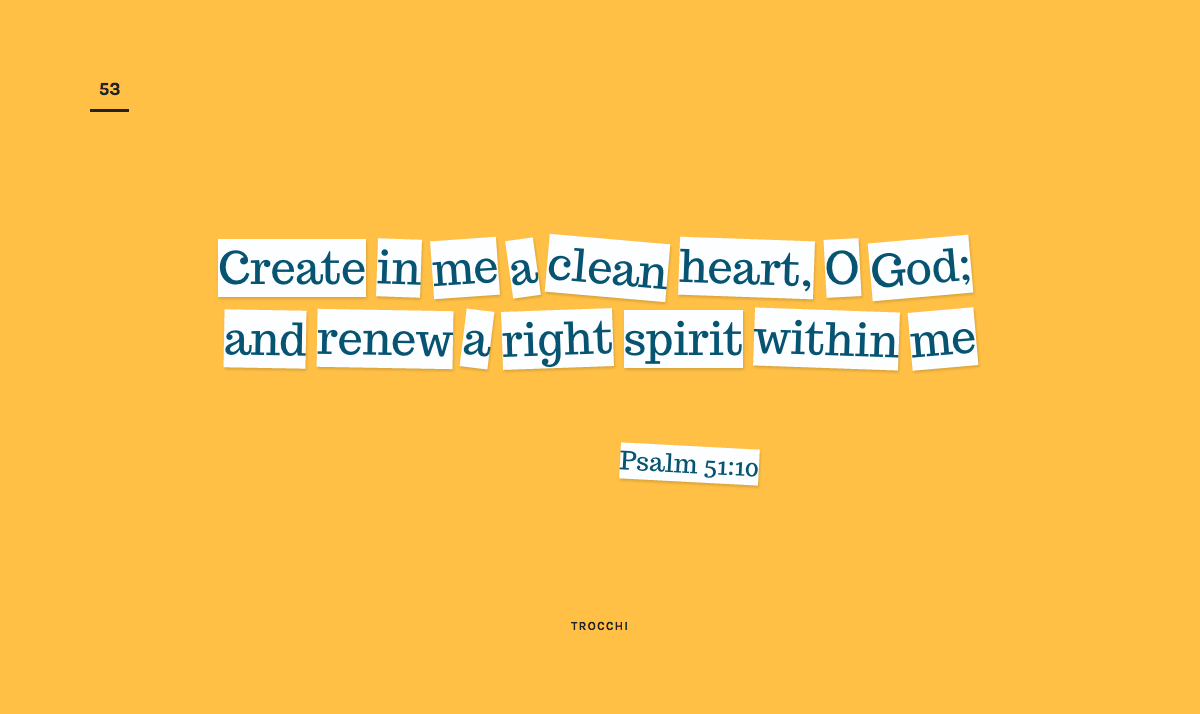
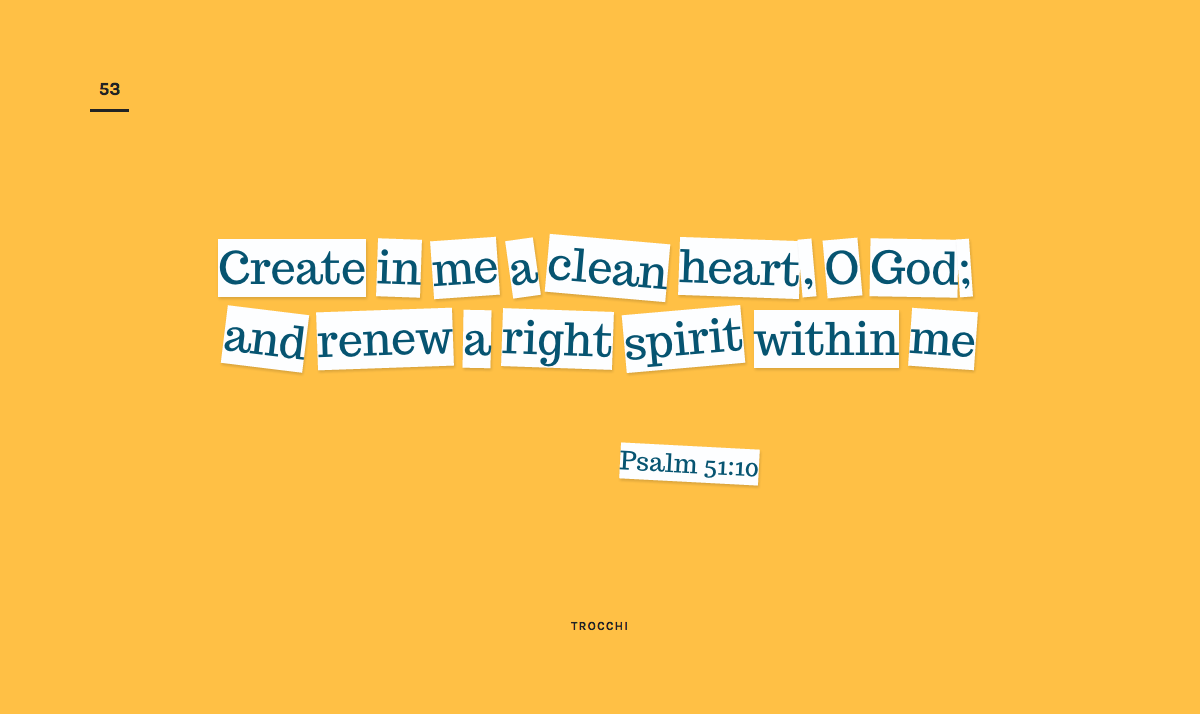
Day 53 adjust.

Changed region(s): [[0.185, 0.3081, 0.8325, 0.5238]]

diff --git a/index.html b/index.html
@@ -8,7 +8,7 @@
 
   <meta name="fontsCSS" content="//fonts.googleapis.com/css?family=Karla:400,700|Playfair+Display:400,400italic,700,700italic,900|Trocchi|Montserrat+Subrayada|Rock+Salt|Monoton|Playfair+Display+SC:700italic|Poppins|Cinzel|Work+Sans:600|Domine|Suranna|Yantramanav:900|Montserrat+Alternates|Istok+Web:400,700|Sacramento|Questrial|Vidaloka|Source+Sans+Pro:400,900|Neuton|Oxygen:700|VT323|Chonburi|Josefin+Slab|Droid+Serif|Exo|Lustria|Permanent+Marker|Vollkorn|Arimo|Londrina+Sketch|Francois+One|Bangers|Patrick+Hand|League+Script|Quicksand|Prata|Fira+Sans:500|Amiri:400,700|Fjalla+One|Arapey|Hind:700|Gentium+Book+Basic:400,700|EB+Garamond|Share+Tech+Mono|PT+Serif:400,700italic|Montserrat|Inconsolata:700|Codystar|Old+Standard+TT:400,400italic|Oswald:300,400|Ovo|Lato:100,400|Libre+Baskerville:400italic|Vast+Shadow|Amatic+SC|PT+Mono|Abril+Fatface|Roboto:100,300|Crimson+Text:400,400italic,700|Glegoo:400,700">
   <style>
-   @charset "UTF-8";a,aside,b,blockquote,body,cite,div,em,figcaption,figure,footer,h1,h2,h3,h4,h5,h6,header,html,i,img,li,nav,ol,p,q,section,small,span,strong,sub,sup,time,ul{font:inherit;vertical-align:baseline;border:0;padding:0;margin:0}.about-description,.container,.day-scripture{margin-left:auto;margin-right:auto}.day-info,.day-number,b,strong{font-weight:700}.about-title-head,.about-title-tail,em,i{font-style:italic}article,aside,details,figcaption,figure,footer,header,nav,section{display:block}body{line-height:1;font-family:KarlaLocal,"Open Sans",Helvetica,Arial,sans-serif;color:#222324;text-rendering:optimizeLegibility;-webkit-font-variant-ligatures:common-ligatures;font-variant-ligatures:common-ligatures;-webkit-font-feature-settings:"liga";font-feature-settings:"liga"}ol,ul{list-style:none}blockquote,q{quotes:none}blockquote:after,blockquote:before,q:after,q:before{content:'';content:none}@font-face{font-family:KarlaLocal;font-weight:400;font-style:normal;src:local("Karla"),local("Karla-Regular")}@font-face{font-family:KarlaLocal;font-weight:700;font-style:normal;src:local("Karla"),local("Karla-Bold")}@font-face{font-family:PlayfairDisplayLocal;font-weight:400;font-style:normal;src:local("Playfair Display"),local("PlayfairDisplay-Regular")}@font-face{font-family:PlayfairDisplayLocal;font-weight:700;font-style:normal;src:local("Playfair Display"),local("PlayfairDisplay-Bold")}@font-face{font-family:PlayfairDisplayLocal;font-weight:700;font-style:italic;src:local("Playfair Display"),local("PlayfairDisplay-BoldItalic")}.fonts-loaded-100 body{font-family:Karla,KarlaLocal,"Open Sans",Helvetica,Arial,sans-serif}.fonts-timeout-100 body{font-family:KarlaLocal,Karla,"Open Sans",Helvetica,Arial,sans-serif}a{color:#3498db;text-decoration:none}.footer,.footer a{color:#fdfeff}a:hover{text-decoration:underline}.container{max-width:64em}.footer{font-size:.875em;text-align:center;background-color:#222324;padding-top:1.5625em;padding-bottom:1.5625em}@media only screen and (min-width:40em){.footer{padding-top:1.875em;padding-bottom:1.875em}}@media only screen and (min-width:52em){.footer{padding-top:2.5em;padding-bottom:2.5em}}.day-number{color:#222324;text-align:center;border-bottom:3px solid #222324;display:inline-block;width:2.1875em;padding-bottom:.625em;margin-bottom:3.5em}.day--14 .day-number,.day--15 .day-number,.day--2 .day-number,.day--5 .day-number,.day--9 .day-number,.day-number--white{color:#fdfeff;border-bottom-color:#fdfeff}.day-scripture{max-width:80em}.day-scripture::after{clear:both;content:"";display:table}.day-info{font-size:.75em;letter-spacing:.1em;text-transform:uppercase;text-align:center;margin-top:5.33333em}.day-reference{display:block}.day-font{color:#8a8b8c;line-height:1.4}.day-font-link{color:#222324}.about,.day{overflow:hidden;padding:2.5em .9375em}@media only screen and (min-width:30em){.about,.day{padding:3.125em 1.875em}.day-number{margin-bottom:4.0625em}.day-info{margin-top:6.25em}}@media only screen and (min-width:40em){.about,.day{padding:3.75em 3.4375em}.day-number{font-size:1.0625em;margin-bottom:4.23529em}.day-info{margin-top:7em}}@media only screen and (min-width:52em){.about,.day{padding:4.375em 4.6875em}.day-number{margin-bottom:4.8125em}.day-info{margin-top:7.58333em}}@media only screen and (min-width:64em){.about,.day{padding:5em 5.625em}.day-number{font-size:1.125em;margin-bottom:4.44444em}.day-info{margin-top:8em}}.about{background-color:#f2f3f4}.about-title-wrap{text-align:center}.about-title{font-family:PlayfairDisplayLocal,"Times New Roman",Times,serif;margin-bottom:1.25em}.fonts-loaded-100 .about-title{font-family:"Playfair Display",PlayfairDisplayLocal,"Times New Roman",Times,serif}.fonts-timeout-100 .about-title{font-family:PlayfairDisplayLocal,"Playfair Display","Times New Roman",Times,serif}.about-title-head{font-size:2.5em;font-weight:700;display:block}.about-title-tail{font-size:1em;letter-spacing:.22em;text-transform:uppercase;position:relative;left:.0625em}.about-description{color:#454647;line-height:1.3;letter-spacing:-.02em;max-width:31.25em}.about-description p:first-child{margin-bottom:.5em}@media only screen and (min-width:40em){.container--about{display:-webkit-flex;display:-ms-flexbox;display:flex;-webkit-justify-content:center;-ms-flex-pack:center;justify-content:center}.about-title-wrap{text-align:right;-webkit-flex:0 0 13.125em;-ms-flex:0 0 13.125em;flex:0 0 13.125em;margin-right:3.125em}.about-description{-webkit-flex:1;-ms-flex:1;flex:1;max-width:25em;margin-left:0;margin-right:0}.about-title{margin-top:-.9375em;margin-bottom:0}.about-title-head{font-size:3em}.about-title-tail{font-size:1.1875em;letter-spacing:.23em;left:.18421em}}.day--53{background-color:#ffc045}.day--53 .day-reference-link,.day-53-text>span{background-color:#fdfeff;display:inline-block;box-shadow:1px 2px 3px rgba(1,2,3,.15)}.day--53 .day-scripture{padding-top:1em;padding-bottom:1em}@media only screen and (min-width:30em){.day--53 .day-scripture{padding-top:1.5em;padding-bottom:1.5em}}@media only screen and (min-width:40em){.day--53 .day-scripture{padding-top:2em;padding-bottom:2em}}@media only screen and (min-width:52em){.about-title-head{font-size:4em}.about-title-tail{font-size:1.375em;letter-spacing:.355em;left:.27273em}.about-title-wrap{-webkit-flex-basis:16.875em;-ms-flex-preferred-size:16.875em;flex-basis:16.875em;margin-right:4.375em}.day--53 .day-scripture{padding-top:2.5em;padding-bottom:2.5em}}.day--53 .day-text{font-family:Trocchi,serif;color:#065471;text-align:center;-moz-osx-font-smoothing:grayscale;-webkit-font-smoothing:antialiased}.day--53 .day-reference{margin-top:2em}@media only screen and (min-width:40em){.day--53 .day-reference{margin-top:3em}}.day--53 .day-reference-link{font-size:1.0625em;color:#065471;line-height:1.4;-webkit-transform:rotate(3deg);transform:rotate(3deg);margin-left:7em}.day--53 .day-reference-link:hover{-webkit-transform:rotate(-5deg);transform:rotate(-5deg);text-decoration:none}.day-53-text{font-size:1.5em;line-height:1.3;width:12.08333em;display:inline-block}.day-53-text>span{position:relative;margin-top:.15em;margin-bottom:.15em}.day-53-text>span:nth-child(2){-webkit-transform:rotate(2deg);transform:rotate(2deg)}.day-53-text>span:nth-child(3){-webkit-transform:rotate(-4deg);transform:rotate(-4deg)}.day-53-text>span:nth-child(4){-webkit-transform:rotate(-8deg);transform:rotate(-8deg)}.day-53-text>span:nth-child(5){-webkit-transform:rotate(5deg);transform:rotate(5deg)}.day-53-text>span:nth-child(6){-webkit-transform:rotate(2deg);transform:rotate(2deg)}.day-53-text>span:nth-child(7){-webkit-transform:rotate(-3deg);transform:rotate(-3deg)}.day-53-text>span:nth-child(8){-webkit-transform:rotate(-5deg);transform:rotate(-5deg)}.day-53-text>span:nth-child(10),.day-53-text>span:nth-child(9){-webkit-transform:rotate(1deg);transform:rotate(1deg)}.day-53-text>span:nth-child(11){-webkit-transform:rotate(7deg);transform:rotate(7deg)}.day-53-text>span:nth-child(12){-webkit-transform:rotate(-2deg);transform:rotate(-2deg)}.day-53-text>span:nth-child(14){-webkit-transform:rotate(2deg);transform:rotate(2deg)}.day-53-text>span:nth-child(15){-webkit-transform:rotate(-5deg);transform:rotate(-5deg)}@media only screen and (min-width:30em){.day-53-text{font-size:1.875em;width:12em}}@media only screen and (min-width:40em){.day-53-text{font-size:1.875em;width:17.33333em}}@media only screen and (min-width:52em){.day--53 .day-text{font-size:1.3em}}@media only screen and (min-width:64em){.day--53 .day-text{font-size:1.5em}}
+   @charset "UTF-8";a,aside,b,blockquote,body,cite,div,em,figcaption,figure,footer,h1,h2,h3,h4,h5,h6,header,html,i,img,li,nav,ol,p,q,section,small,span,strong,sub,sup,time,ul{font:inherit;vertical-align:baseline;border:0;padding:0;margin:0}.about-description,.container,.day-scripture{margin-left:auto;margin-right:auto}.day-info,.day-number,b,strong{font-weight:700}.about-title-head,.about-title-tail,em,i{font-style:italic}article,aside,details,figcaption,figure,footer,header,nav,section{display:block}body{line-height:1;font-family:KarlaLocal,"Open Sans",Helvetica,Arial,sans-serif;color:#222324;text-rendering:optimizeLegibility;-webkit-font-variant-ligatures:common-ligatures;font-variant-ligatures:common-ligatures;-webkit-font-feature-settings:"liga";font-feature-settings:"liga"}ol,ul{list-style:none}blockquote,q{quotes:none}blockquote:after,blockquote:before,q:after,q:before{content:'';content:none}@font-face{font-family:KarlaLocal;font-weight:400;font-style:normal;src:local("Karla"),local("Karla-Regular")}@font-face{font-family:KarlaLocal;font-weight:700;font-style:normal;src:local("Karla"),local("Karla-Bold")}@font-face{font-family:PlayfairDisplayLocal;font-weight:400;font-style:normal;src:local("Playfair Display"),local("PlayfairDisplay-Regular")}@font-face{font-family:PlayfairDisplayLocal;font-weight:700;font-style:normal;src:local("Playfair Display"),local("PlayfairDisplay-Bold")}@font-face{font-family:PlayfairDisplayLocal;font-weight:700;font-style:italic;src:local("Playfair Display"),local("PlayfairDisplay-BoldItalic")}.fonts-loaded-100 body{font-family:Karla,KarlaLocal,"Open Sans",Helvetica,Arial,sans-serif}.fonts-timeout-100 body{font-family:KarlaLocal,Karla,"Open Sans",Helvetica,Arial,sans-serif}a{color:#3498db;text-decoration:none}.footer,.footer a{color:#fdfeff}a:hover{text-decoration:underline}.container{max-width:64em}.footer{font-size:.875em;text-align:center;background-color:#222324;padding-top:1.5625em;padding-bottom:1.5625em}@media only screen and (min-width:40em){.footer{padding-top:1.875em;padding-bottom:1.875em}}@media only screen and (min-width:52em){.footer{padding-top:2.5em;padding-bottom:2.5em}}.day-number{color:#222324;text-align:center;border-bottom:3px solid #222324;display:inline-block;width:2.1875em;padding-bottom:.625em;margin-bottom:3.5em}.day--14 .day-number,.day--15 .day-number,.day--2 .day-number,.day--5 .day-number,.day--9 .day-number,.day-number--white{color:#fdfeff;border-bottom-color:#fdfeff}.day-scripture{max-width:80em}.day-scripture::after{clear:both;content:"";display:table}.day-info{font-size:.75em;letter-spacing:.1em;text-transform:uppercase;text-align:center;margin-top:5.33333em}.day-reference{display:block}.day-font{color:#8a8b8c;line-height:1.4}.day-font-link{color:#222324}.about,.day{overflow:hidden;padding:2.5em .9375em}@media only screen and (min-width:30em){.about,.day{padding:3.125em 1.875em}.day-number{margin-bottom:4.0625em}.day-info{margin-top:6.25em}}@media only screen and (min-width:40em){.about,.day{padding:3.75em 3.4375em}.day-number{font-size:1.0625em;margin-bottom:4.23529em}.day-info{margin-top:7em}}@media only screen and (min-width:52em){.about,.day{padding:4.375em 4.6875em}.day-number{margin-bottom:4.8125em}.day-info{margin-top:7.58333em}}@media only screen and (min-width:64em){.about,.day{padding:5em 5.625em}.day-number{font-size:1.125em;margin-bottom:4.44444em}.day-info{margin-top:8em}}.about{background-color:#f2f3f4}.about-title-wrap{text-align:center}.about-title{font-family:PlayfairDisplayLocal,"Times New Roman",Times,serif;margin-bottom:1.25em}.fonts-loaded-100 .about-title{font-family:"Playfair Display",PlayfairDisplayLocal,"Times New Roman",Times,serif}.fonts-timeout-100 .about-title{font-family:PlayfairDisplayLocal,"Playfair Display","Times New Roman",Times,serif}.about-title-head{font-size:2.5em;font-weight:700;display:block}.about-title-tail{font-size:1em;letter-spacing:.22em;text-transform:uppercase;position:relative;left:.0625em}.about-description{color:#454647;line-height:1.3;letter-spacing:-.02em;max-width:31.25em}.about-description p:first-child{margin-bottom:.5em}@media only screen and (min-width:40em){.container--about{display:-webkit-flex;display:-ms-flexbox;display:flex;-webkit-justify-content:center;-ms-flex-pack:center;justify-content:center}.about-title-wrap{text-align:right;-webkit-flex:0 0 13.125em;-ms-flex:0 0 13.125em;flex:0 0 13.125em;margin-right:3.125em}.about-description{-webkit-flex:1;-ms-flex:1;flex:1;max-width:25em;margin-left:0;margin-right:0}.about-title{margin-top:-.9375em;margin-bottom:0}.about-title-head{font-size:3em}.about-title-tail{font-size:1.1875em;letter-spacing:.23em;left:.18421em}}.day--53{background-color:#ffc045}.day--53 .day-reference-link,.day-53-text>span{background-color:#fdfeff;display:inline-block;box-shadow:1px 2px 3px rgba(1,2,3,.15)}.day--53 .day-scripture{padding-top:1em;padding-bottom:1em}@media only screen and (min-width:30em){.day--53 .day-scripture{padding-top:1.5em;padding-bottom:1.5em}}@media only screen and (min-width:40em){.day--53 .day-scripture{padding-top:2em;padding-bottom:2em}}@media only screen and (min-width:52em){.about-title-head{font-size:4em}.about-title-tail{font-size:1.375em;letter-spacing:.355em;left:.27273em}.about-title-wrap{-webkit-flex-basis:16.875em;-ms-flex-preferred-size:16.875em;flex-basis:16.875em;margin-right:4.375em}.day--53 .day-scripture{padding-top:2.5em;padding-bottom:2.5em}}.day--53 .day-text{font-family:Trocchi,serif;color:#065471;text-align:center;-moz-osx-font-smoothing:grayscale;-webkit-font-smoothing:antialiased}.day--53 .day-reference{margin-top:2em}@media only screen and (min-width:40em){.day--53 .day-reference{margin-top:3em}}.day--53 .day-reference-link{font-size:1.0625em;color:#065471;line-height:1.4;-webkit-transform:rotate(3deg);transform:rotate(3deg);margin-left:7em}.day--53 .day-reference-link:hover{-webkit-transform:rotate(-5deg);transform:rotate(-5deg);text-decoration:none}.day-53-text{font-size:1.5em;line-height:1.3;width:12.08333em;display:inline-block}.day-53-text>span{position:relative;margin-top:.15em;margin-bottom:.15em}.day-53-text>span:nth-child(2){-webkit-transform:rotate(2deg);transform:rotate(2deg)}.day-53-text>span:nth-child(3){-webkit-transform:rotate(-4deg);transform:rotate(-4deg)}.day-53-text>span:nth-child(4){-webkit-transform:rotate(-8deg);transform:rotate(-8deg)}.day-53-text>span:nth-child(5){-webkit-transform:rotate(5deg);transform:rotate(5deg)}.day-53-text>span:nth-child(6){-webkit-transform:rotate(2deg);transform:rotate(2deg)}.day-53-text>span:nth-child(7),.day-53-text>span:nth-child(8){-webkit-transform:rotate(-5deg);transform:rotate(-5deg)}.day-53-text>span:nth-child(9){-webkit-transform:rotate(1deg);transform:rotate(1deg)}.day-53-text>span:nth-child(10){-webkit-transform:rotate(-4deg);transform:rotate(-4deg)}.day-53-text>span:nth-child(11){-webkit-transform:rotate(7deg);transform:rotate(7deg)}.day-53-text>span:nth-child(12){-webkit-transform:rotate(-2deg);transform:rotate(-2deg)}.day-53-text>span:nth-child(13){-webkit-transform:rotate(1deg);transform:rotate(1deg)}.day-53-text>span:nth-child(14){-webkit-transform:rotate(2deg);transform:rotate(2deg)}.day-53-text>span:nth-child(15){-webkit-transform:rotate(-5deg);transform:rotate(-5deg)}.day-53-text>span:nth-child(17){-webkit-transform:rotate(4deg);transform:rotate(4deg)}@media only screen and (min-width:30em){.day-53-text{font-size:1.875em;width:12em}}@media only screen and (min-width:40em){.day-53-text{font-size:1.875em;width:17.33333em}}@media only screen and (min-width:52em){.day--53 .day-text{font-size:1.3em}}@media only screen and (min-width:64em){.day--53 .day-text{font-size:1.5em}}
   </style>
   <meta name="mainCSS" content="assets/css/screen.css?20150923">
 
@@ -90,7 +90,7 @@
     <a href="#day-53"><time datetime="2015-09-23" title="September 23, 2015" class="day-number">53</time></a>
     <section class="day-scripture">
       <blockquote class="day-text">
-        <span class="day-53-text"><span>Create</span> <span>in</span> <span>me</span> <span>a</span> <span>clean</span> <span>heart,</span> <span>O</span> <span>God;</span> <span>and</span> <span>renew</span> <span>a</span> <span>right</span> <span>spirit</span> <span>within</span> <span>me</span></span>
+        <span class="day-53-text"><span>Create</span> <span>in</span> <span>me</span> <span>a</span> <span>clean</span> <span>heart</span><span>,</span> <span>O</span> <span>God</span><span>;</span> <span>and</span> <span>renew</span> <span>a</span> <span>right</span> <span>spirit</span> <span>within</span> <span>me</span></span>
         <footer class="day-reference">
           <cite><a href="https://www.bible.com/bible/1/psa.51.10" class="day-reference-link" class="day-reference-link">Psalm 51:10</a></cite>
         </footer>

diff --git a/assets/sass/days/_053.scss b/assets/sass/days/_053.scss
@@ -77,16 +77,16 @@ $day-53-blue  : #065471;
     &:nth-child(4) { transform: rotate(-8deg) }
     &:nth-child(5) { transform: rotate(5deg) }
     &:nth-child(6) { transform: rotate(2deg) }
-    &:nth-child(7) { transform: rotate(-3deg) }
+    &:nth-child(7) { transform: rotate(-5deg) }
     &:nth-child(8) { transform: rotate(-5deg) }
     &:nth-child(9) { transform: rotate(1deg) }
-
-    &:nth-child(10) { transform: rotate(1deg) }
+    &:nth-child(10) { transform: rotate(-4deg) }
     &:nth-child(11) { transform: rotate(7deg) }
     &:nth-child(12) { transform: rotate(-2deg) }
-    // &:nth-child(13) {  }
+    &:nth-child(13) { transform: rotate(1deg) }
     &:nth-child(14) { transform: rotate(2deg) }
     &:nth-child(15) { transform: rotate(-5deg) }
+    &:nth-child(17) { transform: rotate(4deg) }
   }
 }
 
